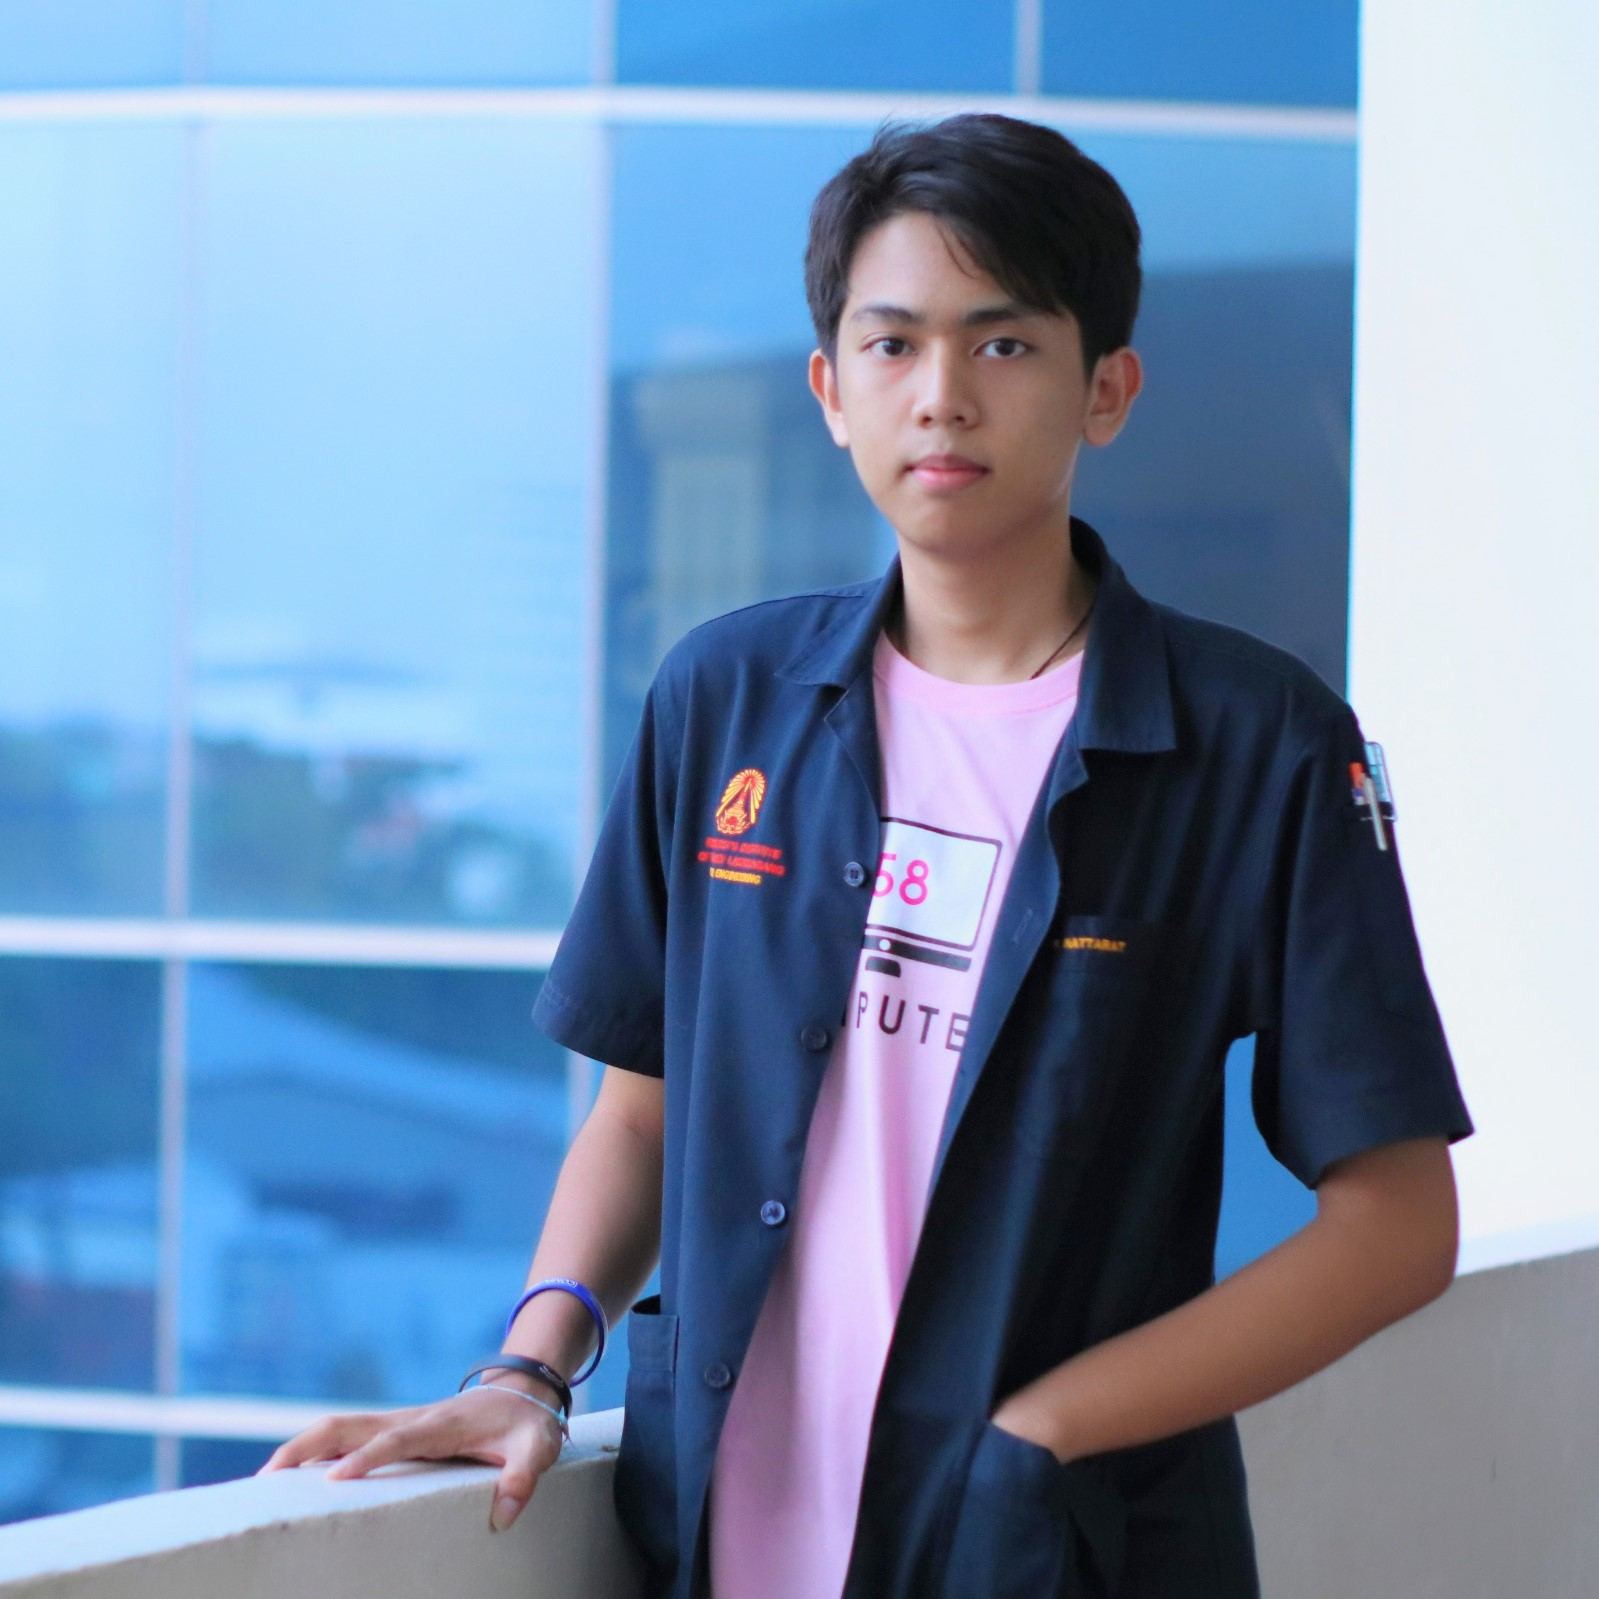
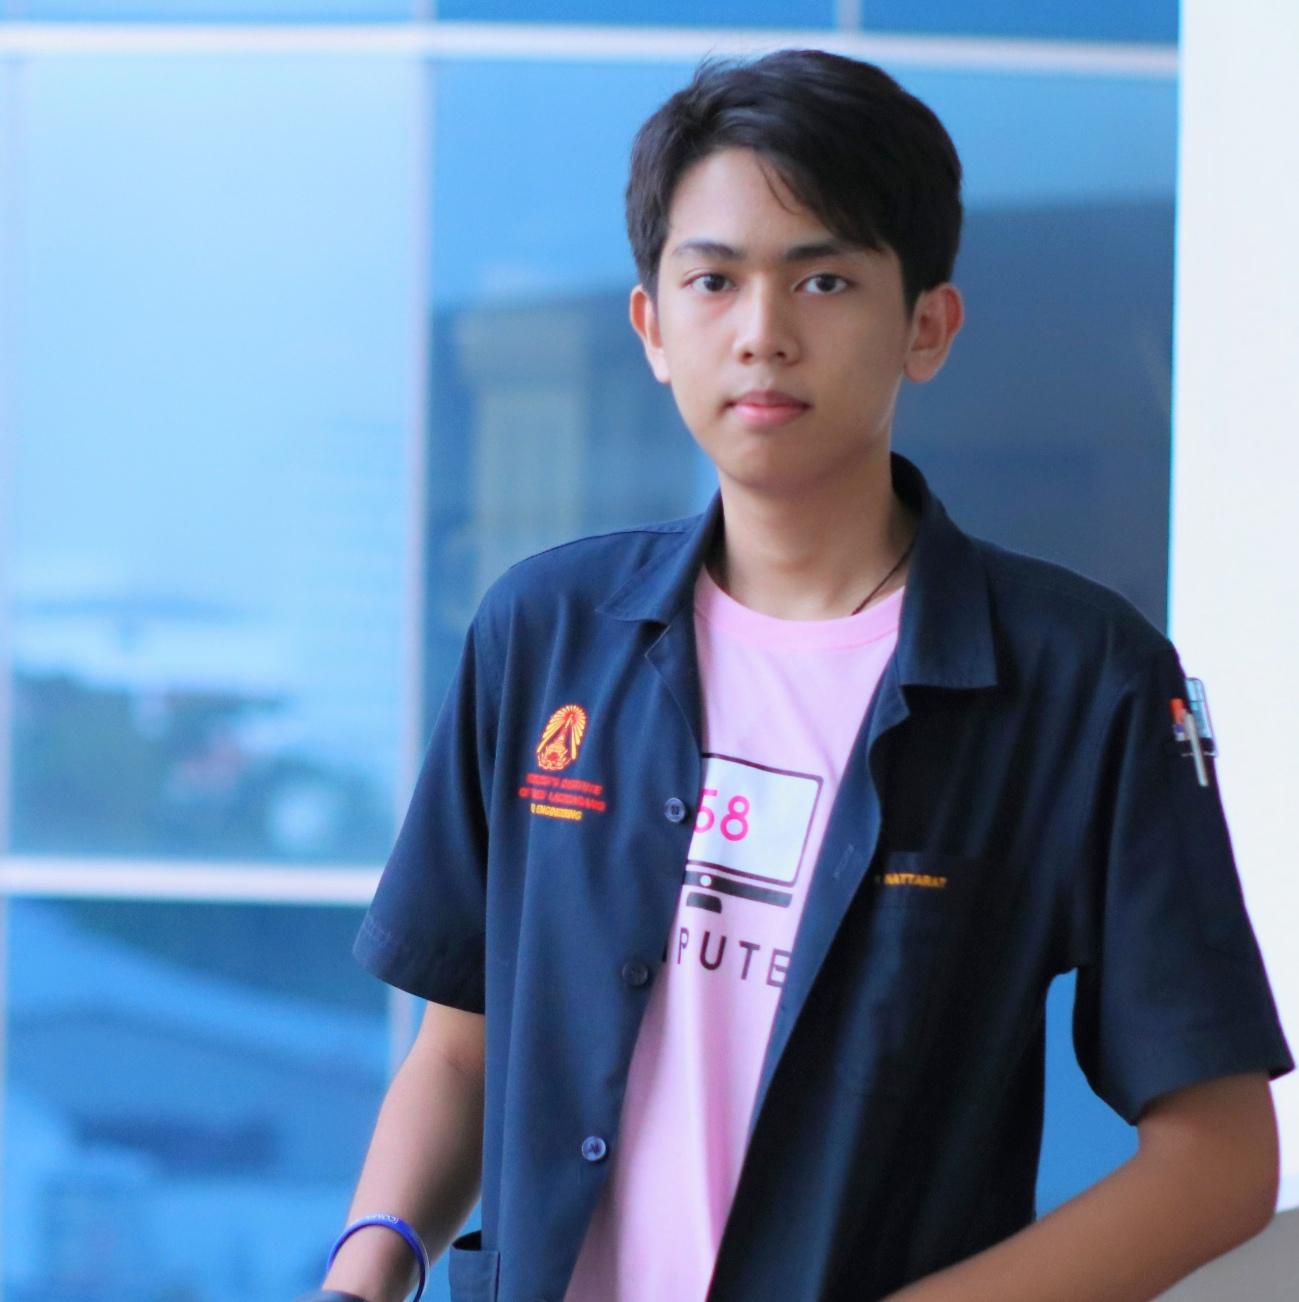
Update-Profile

diff --git a/src/pages/Profile.js b/src/pages/Profile.js
@@ -1,7 +1,38 @@
 import React from 'react'
+import './Profile.css'
+import icon from '../img/profile-sq.jpg'
 
-export const Profile = () =>{
-    return(
-        <div><h1>me</h1></div>
+
+
+export const Profile = () => {
+    return (
+        <div className="profile">
+            
+            <div className="profile-content">
+                <div className="profile-top">
+                    <div className="profile-left">
+                        <img src={icon} alt="" className="profile-img" />
+                    </div>
+                    <div className="profile-right">
+                        <div className = "text-header">
+                            Profile <i class="far fa-id-card"></i> 
+                        </div>
+                        <div className = "text">
+                            <i class="fas fa-user-tag"></i> Name : Nattarat Serirat [ fang ] <br/>
+                            <i class="fas fa-birthday-cake"></i> Age : 20<br/>
+                            <i class='far fa-calendar-check'></i> Birthdate : 22 February 2000 <br/>
+                            <i class="fas fa-graduation-cap"></i> Education : Computer Engineering <br/>
+                            <i class="fas fa-phone"></i> Contact : 080-284-8185
+                                     
+                        </div> 
+                    </div>
+                </div>
+                <div className="profile-bot">
+                    <br/>
+                    ใส่ไรดี??
+                </div>
+            </div>
+
+        </div>
     )
 }

diff --git a/src/pages/Projects.js b/src/pages/Projects.js
@@ -8,12 +8,12 @@ export const Projects = () => {
         <div className="project">
             <h1>Projects</h1>
             <div className="projects-list">
-                <CardDeck>
+                <CardDeck style ={{margin:'20px'}}>
                     <Card  bg = "dark" style={{ height: '350px', borderRadius: '20px' }} >
                         <Card.Img style={{ height: '200px', borderRadius: '20px' }} src={educaCard} />
                         <Card.Body>
                             <Card.Title style={{ color: "white" }}><h4>Educa</h4></Card.Title>
-                            <Card.Text style={{ fontSize: '15px' }}>
+                            <Card.Text style={{ fontSize: '15px' , textAlign:'left'}}>
                                 Web application for Education <br></br> - Software Development Process Project with my team at KMITL.
                             </Card.Text>
                             <Card.Link href="https://github.com/Educa-software" style={{ color: "white" }}>See Github</Card.Link>
@@ -33,7 +33,7 @@ export const Projects = () => {
 
 
                 </CardDeck>
-                <CardDeck>
+                <CardDeck style ={{margin:'20px'}}>
                     <Card bg="dark" style={{ height: '350px', borderRadius: '20px' }}>
                         <Card.Img style={{ height: '200px', borderRadius: '20px' }} variant="top" src="" />
                         <Card.Body>

diff --git a/src/pages/Profile.css b/src/pages/Profile.css
@@ -1,0 +1,66 @@
+.profile {
+    font-family: 'Baloo Tammudu 2', cursive;
+    color: white;
+    width: 100%;
+    height: 100%;
+}
+.profile-content{
+    width: 1100px;
+    height: 100%;
+    position: absolute;
+    top: 50%;
+    left: 50%;
+    transform: translate(-50%, -50%);
+    padding-top: 100px;
+    display: flex;
+    flex-flow: column;
+    
+     
+}
+
+.profile-top{
+    height: 450px;
+    display: flex;
+    flex-flow: row;      
+}
+.profile-left{
+    height: 100%;  
+    width: 40%;
+}
+.profile-right{
+    height: 100%;  
+    width: 60%;
+    padding: 50px;
+    text-align: left;
+    
+}
+.profile-bot{
+    height: 600px;
+    width: 100%;
+    border-radius: 20px;
+    border-style: solid;
+    border-width: 5px;
+    border-color: #FFFFFF;
+     
+}
+
+.profile-img{
+    width: 350px;
+    height: 350px;
+    margin: 50px;
+    border-radius: 20px;
+    border-style: solid;
+    border-width: 5px;
+    border-color: #FFFFFF;
+    box-shadow:5px 5px 10px darkslateblue;
+
+}
+
+.text-header{
+    font-size: 50px;
+}
+
+.text{
+    font-size: 30px;
+    padding-left: 30px;
+}

diff --git a/src/pages/Projects.css b/src/pages/Projects.css
@@ -1,19 +1,20 @@
 .project {
     font-family: 'Baloo Tammudu 2', cursive;
     color: white;
+    width: 100%;
+    height: 100%;
 }
 .projects-list{
-    width: 1280px;
-    height: 100%;
-    
+    width: 1200px;
     position: absolute;
     top: 50%;
     left: 50%;
     transform: translate(-50%, -50%);
-    padding: 50px;
-    padding-top: 200px;
+    padding-top: 100px;
     display: flex;
     flex-flow: column;
     justify-content: space-between;
     
+    
 }
+

diff --git a/src/pages/Home.css b/src/pages/Home.css
@@ -3,7 +3,7 @@
     top: 50%;
     left: 50%;
     transform: translate(-50%, -50%);
-    width:1280px;
+    width: 100%;
     height: 100%;
     
     
@@ -17,10 +17,10 @@
 
 .icon{
     border-style: solid;
-    border-width: 10px;
+    border-width: 5px;
     border-radius: 50%;
-    width: 300px;
-    height: 300px;
+    width: 280px;
+    height: 280px;
     border-color: #FFFFFF;
     margin: 20px;
     box-shadow:2px 2px 5px darkblue;

diff --git a/src/App.js b/src/App.js
@@ -18,7 +18,7 @@ function App() {
       <BrowserRouter basename = '/fangy43.github.io'>
         <Navigation />
         <Switch>
-          <Route exact path="/" component={Home} />
+        <Route exact path="/" component={Home} />
           <Route path="/projects" component={Projects} />
           <Route path="/profile" component={Profile} />
           <Route path="/contact" component={Contact} />

diff --git a/public/index.html b/public/index.html
@@ -46,6 +46,8 @@
       }(window.location))
     </script>
 
+    <script src="https://kit.fontawesome.com/caac7b505e.js" ></script>
+
   </head>
   <body>
     <noscript>You need to enable JavaScript to run this app.</noscript>
